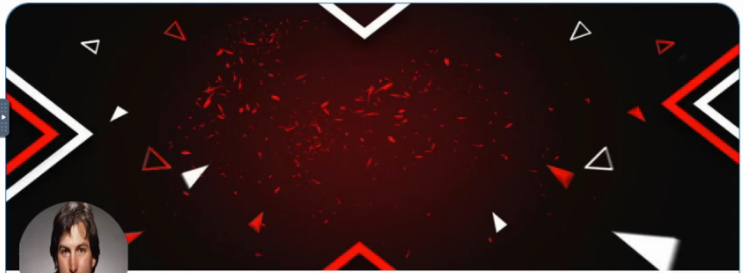
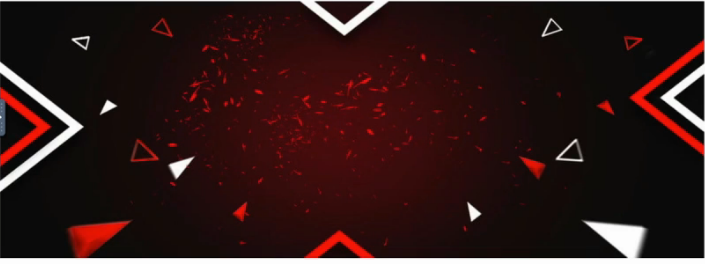
respaldo

diff --git a/index.html b/index.html
@@ -5,8 +5,11 @@
     <meta http-equiv="X-UA-Compatible" content="IE=edge">
     <meta name="viewport" content="width=device-width, initial-scale=1.0">
     <title>yoProgramoModulo1y2</title>
-    
-    <link href="https://cdn.jsdelivr.net/npm/bootstrap@5.1.3/dist/css/bootstrap.min.css" rel="stylesheet" integrity="sha384-1BmE4kWBq78iYhFldvKuhfTAU6auU8tT94WrHftjDbrCEXSU1oBoqyl2QvZ6jIW3" crossorigin="anonymous">
+    <link rel="stylesheet" href="https://maxcdn.bootstrapcdn.com/bootstrap/4.0.0/css/bootstrap.min.css" integrity="sha384-Gn5384xqQ1aoWXA+058RXPxPg6fy4IWvTNh0E263XmFcJlSAwiGgFAW/dAiS6JXm" crossorigin="anonymous">
+    <link rel="stylesheet" href="https://use.fontawesome.com/releases/v5.5.0/css/all.css" integrity="sha384-B4dIYHKNBt8Bc12p+WXckhzcICo0wtJAoU8YZTY5qE0Id1GSseTk6S+L3BlXeVIU" crossorigin="anonymous">
+    <link href="https://cdn.jsdelivr.net/npm/bootstrap@5.1.1/dist/css/bootstrap.min.css" rel="stylesheet" integrity="sha384-F3w7mX95PdgyTmZZMECAngseQB83DfGTowi0iMjiWaeVhAn4FJkqJByhZMI3AhiU" crossorigin="anonymous">
+    <!--<script src="https://cdn.jsdelivr.net/npm/bootstrap@5.1.1/dist/js/bootstrap.bundle.min.js" integrity="sha384-/bQdsTh/da6pkI1MST/rWKFNjaCP5gBSY4sEBT38Q/9RBh9AH40zEOg7Hlq2THRZ" crossorigin="anonymous"></script>-->
+    <!--<link href="https://cdn.jsdelivr.net/npm/bootstrap@5.1.3/dist/css/bootstrap.min.css" rel="stylesheet" integrity="sha384-1BmE4kWBq78iYhFldvKuhfTAU6auU8tT94WrHftjDbrCEXSU1oBoqyl2QvZ6jIW3" crossorigin="anonymous">-->
     <link rel="stylesheet" href="./estilo.css">
 
 </head>
@@ -15,7 +18,7 @@
     <div id="profile-background"> <img src="./Pictures/fondo.png"> </div>
     <div id="info" style="padding: 16px"> 
         <div id="info-img">
-            <img class="profile-image" src="./Pictures/caritaDePija.png" >
+            <img class="profile-image" src="./Pictures/cara.png" >
             <div class="btn-edit"><a href="#" class="btn-right"><i class="fa fa-pen"></i></a></div>
         </div>
         <div id="info-data">
@@ -29,24 +32,24 @@
             </div>
             <ul id="info-details">
                 <li><a href="#">
-                <img src="./Pictures/logo_1.png">
+                <img src="./Pictures/logo1.png">
                 <h2>TRABAJO EN CASA</h2>
                 </a></li>
                 <li><a href="#">
-                <img src="./Pictures/logo_2.png">
+                <img src="./Pictures/logo2.png">
                 <h2>TRABAJO EN CASA SI QUIERO</h2>
                 </a></li>
             </ul>
         </div>
         <div id="info-actions">
             <button type="button" class="btn btn-primary">tengo interes en</button>
-            <button type="button" class="btn btn-light">BUTON PEDO</button>
-            <button type="button" class="btn btn-light">BUTON MAS PEDO</button>
+            <button type="button" class="btn btn-light">Boton 2</button>
+            <button type="button" class="btn btn-light">Boton 3</button>
         </div>
     </div>
 </div>
 
-<div class="card-mat-card">
+<div class="card-mat-card" id="1">
     <div class="card-titles">
         <h2>Acerca de</h2>
         <div class="btn-edit" onclick="cambiar_parrafo()">
@@ -56,17 +59,30 @@
         </div>
     </div>
     <div>
-        <p id="texto-acercade">Un tipo x que no se que macri gato</p>
+        <p id="text-acercade">Un tipo x que no se que macri gato</p>
     </div>
     <div>
         <input id="edit-acercade" type="text" oninput="myfunction2(this.value)">
     </div>
 </div>
 
+<div class="card mat-card">
+    <div id="Nombre">1</div>
+</div>
+
+<div class="card mat-card">
+    <div id="Apellido">1</div>
+</div>
+<div class="card mat-card">
+    <div id="Titulo">1</div>
+</div>
+
+<input type="file" id="file1" onchange="showFile(this)">
+<script src="./ecma_brw.js"></script>
 <script>
     function cambiar_parrafo(){
         document.getElementById("edit-acercade").style.display="block";
-        let texto = getElementById("edit-acercade").innerText;
+        let texto = document.getElementById("edit-acercade").innerText;
         console.log(texto);
     };
     function myfunction2(valor){
@@ -74,17 +90,39 @@
     };
     function logMessage(message){
         console.log(message + "<br>");
-    }
+    };
     
-    let textarea=document.getElementById("edit-acercade");
+    let textarea=document.getElementById("edit-acercade")
     textarea.addEventListener('keyup', (e) => {
         logMessage(`Key "${e.key}" released  [event: keyup]`);
         if (e.key=="Enter"){
-            ducument.getElementById("edit-acercade").style.display="none"
+            document.getElementById("edit-acercade").style.display="none"
         }
     });
-</script>
+    function showFile(input){
+        let file=input.file[0];
+        let reader= new FileReader();
+        reader.readAsText(file);
+        reader.onload=function(){
+            console.log(reader.result);
+            document.getElementById("text-acercade").innerText=reader.result;
+        };
+        reader.onerror=function(){
+            console.log(reader.error);
+        };
+    };
 
+</script>
+<script>
+    function foo(){
+        let newDiv = document.createElement("div");
+        let newContent =document.createTextNode("texto para ver");
+        newDiv.appendChild(newContent);
+        let lugarDiv=document.getElementById("1");
+        document.body.insertBefore(newDiv,lugarDiv);
+    };
+    foo ();
+</script>
 </body>
 
 

diff --git a/listas.html b/listas.html
@@ -1,0 +1,92 @@
+<!--
+ _______   ___                _____   ________  
+|\  ___ \ |\  \              / __  \ |\_____  \ 
+\ \   __/|\ \  \            |\/_|\  \ \|___/  /|
+ \ \  \_|/_\ \  \           \|/ \ \  \    /  / /
+  \ \  \_|\ \ \  \____           \ \  \  /  / / 
+   \ \_______\ \_______\          \ \__\/__/ /  
+    \|_______|\|_______|           \|__||__|/   
+  
+ -->   
+<!DOCTYPE html>
+<html>
+
+<head>
+  <meta charset="UTF-8">
+  <title>Resolución ejercicio etiquetas de encabezdos html</title>
+  <meta content="author" content="francesc ricart">
+</head>
+
+<body>
+
+<h2>Listas ordenadas</h2>
+<h4>La lista debe ir desde la a hasta la d</h4>
+<ol type="a">
+   <li>Elemento 1</li>
+   <li>Elemento 2</li>  
+   <li>Elemento 3</li> 
+   <li>Elemento 4</li> 
+</ol>
+<h4>La lista debe ir desde la laetra "g" hasta la "j"</h4>
+<ol type="a">
+   <li value="7">Elemento 1</li>  
+   <li>Elemento 2</li>  
+   <li>Elemento 3</li>  
+   <li>Elemento 4</li>  
+</ol>
+
+<h4>La lista debe ir desde la laetra z hasta la w (descendente)</h4>
+<ol reversed type="a">
+ <li value="26">Elemento 1</li>    
+ <li>Elemento 2</li>   
+ <li>Elemento 3</li>    
+ <li>Elemento 4</li>    
+</ol>
+<h4>La lista debe ir desde 1 hasta 4</h4>
+<ol>
+   <li>Elemento 1</li>   
+   <li>Elemento 2</li>   
+   <li>Elemento 3</li>   
+   <li>Elemento 4</li>   
+</ol> 
+<h4>La lista debe ir desde 33 hasta 36 </h4>
+<ol>
+   <li value="33">Elemento 1</li>  
+   <li>Elemento 2</li>
+   <li>Elemento 3</li> 
+   <li>Elemento 4</li> 
+</ol> 
+<h4>La lista debe ir desde 100 hasta 97 (descendente) </h4>
+<ol reversed>
+   <li value="100">Elemento 1</li>  
+   <li>Elemento 2</li>   
+   <li>Elemento 3</li>  
+   <li>Elemento 4</li>  
+</ol> 
+   <h2>Listas Desordenadas</h2>
+
+   <h4>La lista debe ser de tipo disco </h4>
+ <ul>
+   <li type="disc">
+	   Elemento 1 </li> 		
+   <li>Elemento 2 </li> 
+   <li>Elemento 3 </li>
+   <li>Elemento 4 </li>
+</ul>   
+   <h4>La lista debe ser de tipo circulo</h4>
+ <ul>
+   <li type="circle">Elemento 1</li>   		
+   <li type="circle">Elemento 2</li> 
+   <li type="circle">Elemento 3</li> 
+   <li type="circle">Elemento 4</li> 
+ </ul>
+   <h4>La lista debe ser de tipo cuadrado</h4>
+ <ul>
+<li type="square">Elemento 1</li>   		
+<li type="square">Elemento 2</li>  
+<li type="square">Elemento 3</li>  
+<li type="square">Elemento 4</li>   
+</ul>
+</body>
+
+</html>

diff --git a/pruebaJSTeclas/teclas.html b/pruebaJSTeclas/teclas.html
@@ -1,0 +1,61 @@
+<!DOCTYPE html>
+<html lang="en">
+<head>
+    <meta charset="UTF-8">
+    <meta http-equiv="X-UA-Compatible" content="IE=edge">
+    <meta name="viewport" content="width=device-width, initial-scale=1.0">
+    <title>Document</title>
+    <link href="https://cdn.jsdelivr.net/npm/bootstrap@5.1.3/dist/css/bootstrap.min.css" rel="stylesheet" integrity="sha384-1BmE4kWBq78iYhFldvKuhfTAU6auU8tT94WrHftjDbrCEXSU1oBoqyl2QvZ6jIW3" crossorigin="anonymous">
+    <link rel="stylesheet" href="./teclas.css">
+
+</head>
+<body>
+    <div class="fx">
+        <div>
+          <textarea rows="5" name="test-target" id="test-target"></textarea>
+          <button type="button" name="btn-reset" id="btn-reset">Reset</button>
+        </div>
+        <div class="flex">
+          <pre id="console-log"></pre>
+        </div>
+      </div>
+      <script>
+        let textarea = document.getElementById('test-target'),
+    consoleLog = document.getElementById('console-log'),
+    btnReset = document.getElementById('btn-reset');
+    
+    function logMessage(message) {
+      consoleLog.innerHTML += message + "<br>";
+    }
+    
+    textarea.addEventListener('keydown', (e) => {
+      if (!e.repeat)
+        logMessage(`Key "${e.key}" pressed  [event: keydown]`);
+      else
+        logMessage(`Key "${e.key}" repeating  [event: keydown]`);
+    });
+    
+    textarea.addEventListener('beforeinput', (e) => {
+      logMessage(`Key "${e.data}" about to be input  [event: beforeinput]`);
+    });
+    
+    textarea.addEventListener('input', (e) => {
+      logMessage(`Key "${e.data}" input  [event: input]`);
+    });
+    
+    textarea.addEventListener('keyup', (e) => {
+      logMessage(`Key "${e.key}" released  [event: keyup]`);
+    });
+    
+    btnReset.addEventListener('click', (e) => {
+      let child = consoleLog.firstChild;
+      while (child) {
+       consoleLog.removeChild(child);
+       child = consoleLog.firstChild;
+      }
+      textarea.value = ''
+    });
+    
+    </script>   
+</body>
+</html>

diff --git a/ecma_brw.js b/ecma_brw.js
@@ -1,0 +1,24 @@
+let ES1     = !!(Array.prototype && Array.prototype.join),
+ES3     = !!(Array.prototype && Array.prototype.pop),
+ES51    = (function() {'use strict'; return !this; })(),
+ES6     = !!Object.assign,
+ES7     = !!(Array.prototype && Array.prototype.includes);
+    /*
+    var ES51    = Modernizr.es5,
+        ES6     = Modernizr.es6object;
+        ES7     = false;
+    */
+
+if(ES7){
+    alert('Tu navegador contiene características mínimas de ECMAScript 7');
+}else if(ES6){
+    alert('Tu navegador contiene características mínimas de ECMAScript 6');
+}else if(ES51){
+    alert('Tu navegador tiene soporte para ECMAScript 5.1');
+}else if(ES3){
+    alert('Tu navegador contiene características de ECMAScript 3');
+}else if(ES1){
+    alert('Tu navegador contiene características de ECMAScript 1');
+}else{
+    alert('Tu navegador contiene características de ECMAScript desconocida');
+}

diff --git a/pruebaJSTeclas/teclas.css b/pruebaJSTeclas/teclas.css
@@ -1,0 +1,27 @@
+.fx {
+    -webkit-display: flex;
+    display: flex;
+    margin-left: -20px;
+    margin-right: -20px;
+  }
+  
+  .fx > div {
+    padding-left: 20px;
+    padding-right: 20px;
+  }
+  
+  .fx > div:first-child {
+     width: 30%;
+  }
+  
+  .flex {
+    -webkit-flex: 1;
+    flex: 1;
+  }
+  
+  #test-target {
+    display: block;
+    width: 100%;
+    margin-bottom: 10px;
+  }
+  

diff --git a/objetos.ts b/objetos.ts
@@ -1,0 +1,7 @@
+interface persona{
+    nombre:string;
+    Apellido:string;
+    Acercade:string;
+    Titulo:[string,string];
+}
+let pofolio
